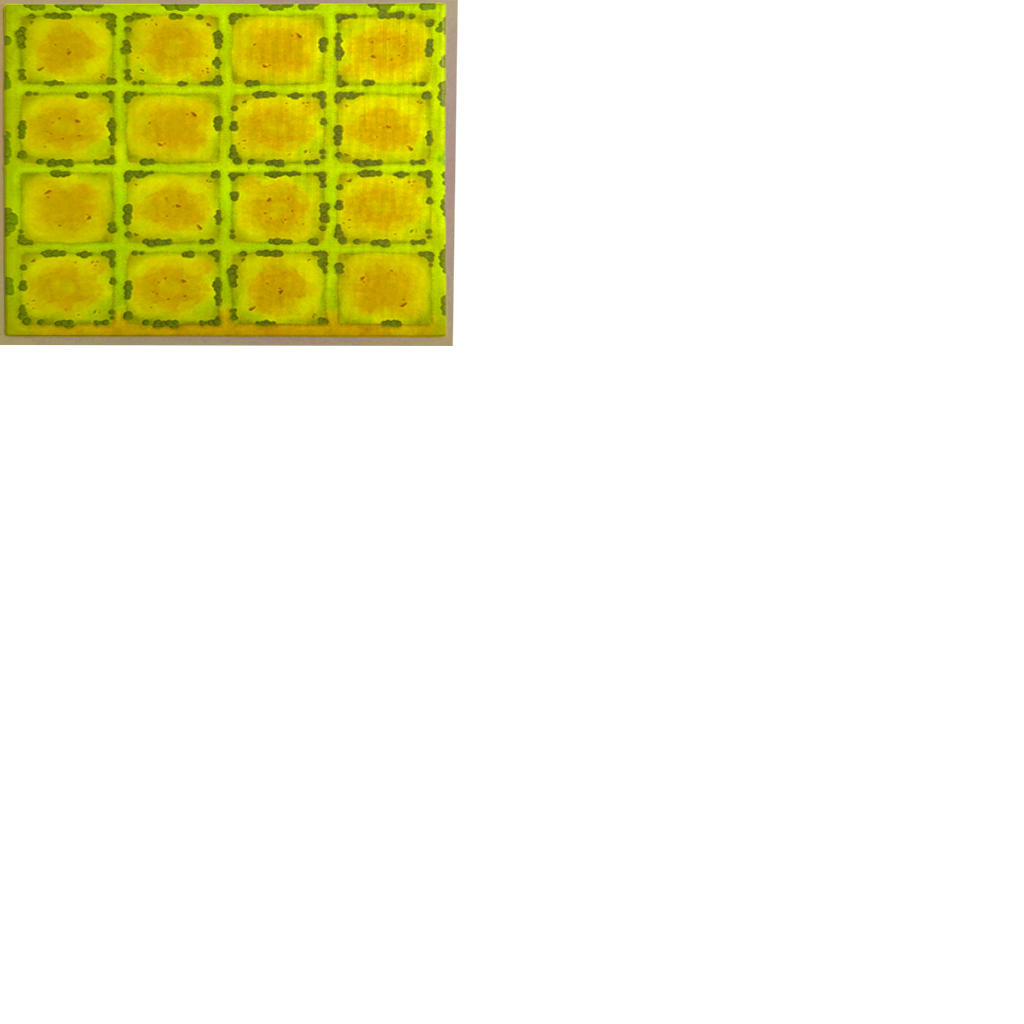
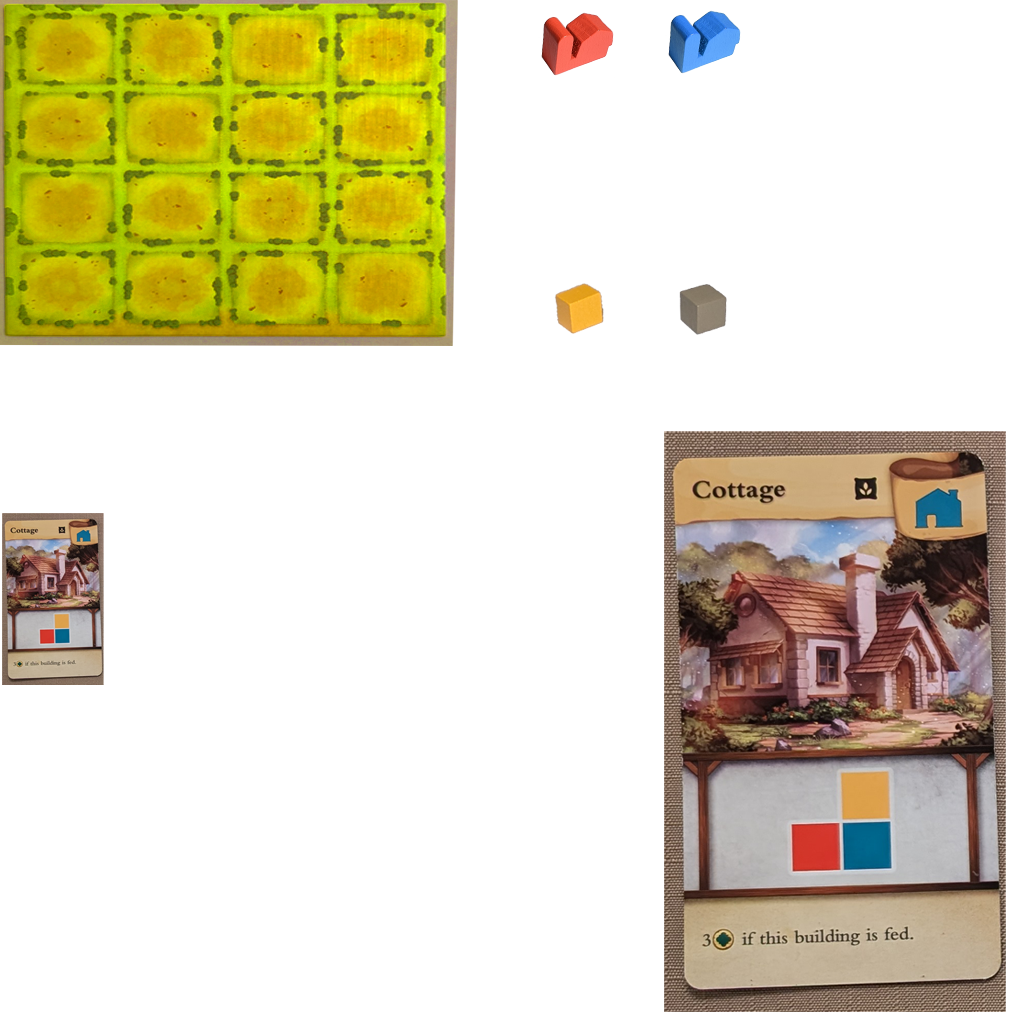
more pics

diff --git a/iris/iris.js b/iris/iris.js
@@ -84,6 +84,12 @@ export default class Iris {
     }
 
     this.helly.draw('board', [5, 455]);
+    this.helly.draw('building00', [5 + 440 * 1/8, 455 + 330 * 1/8]);
+    this.helly.draw('building01', [5 + 440 * 3/8, 455 + 330 * 3/8]);
+    this.helly.draw('resource00', [5 + 440 * 5/8, 455 + 330 * 3/8]);
+    this.helly.draw('resource01', [5 + 440 * 3/8, 455 + 330 * 5/8]);
+    this.helly.draw('resource01', [5 + 440 * 5/8, 455 + 330 * 5/8]);
+    this.helly.draw('card00', [15, 15]);
 
     this.areas._debugDraw(this.context);
   }
